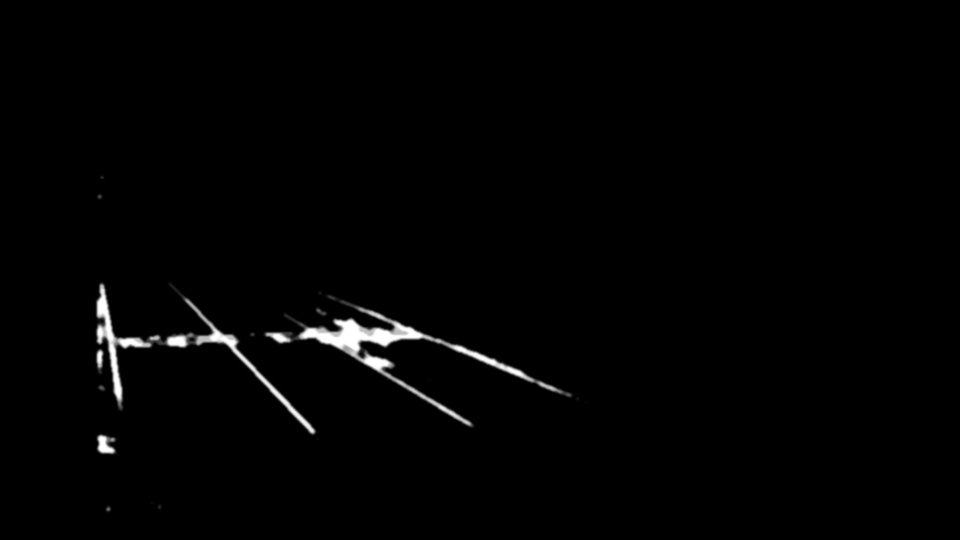
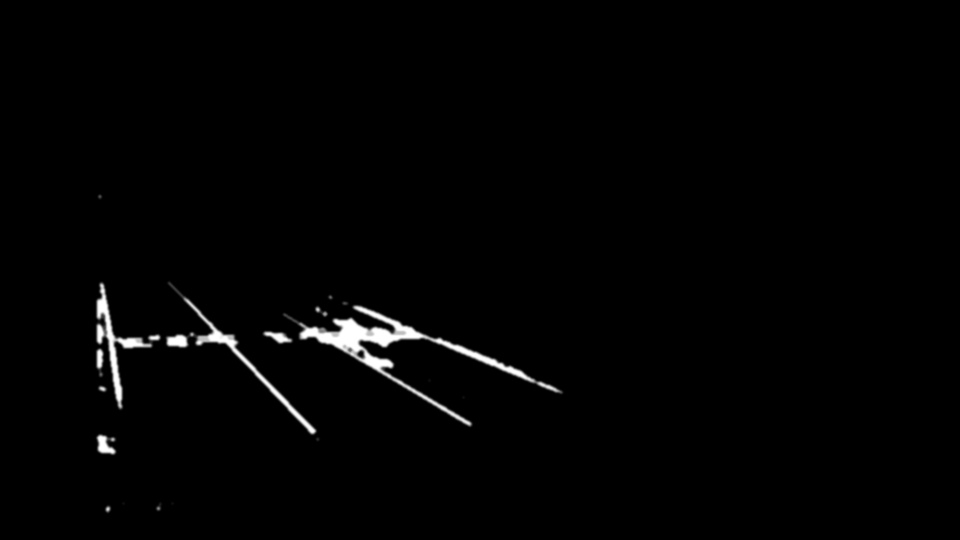
调整参数

diff --git a/source/image_utils.cpp b/source/image_utils.cpp
@@ -64,11 +64,12 @@ void brightness_contrast_auto(const cv::Mat &src, cv::Mat &dst, float clipHistPe
 static void sobel_thresh(cv::Mat const &src, cv::Mat &dest, int thresh_min = 0,
                          int thresh_max = 255)
 {
-    double min, max;
-    auto image = src.clone();
-    cv::minMaxLoc(image, &min, &max);
-    cv::Mat scaled = 255 * (image / max);
-    cv::inRange(scaled, cv::Scalar(thresh_min), cv::Scalar(thresh_max), dest);
+//    double min, max;
+//    auto image = src.clone();
+//    cv::minMaxLoc(image, &min, &max);
+//    cv::Mat scaled = 255 * (image / max);
+//    cv::inRange(scaled, cv::Scalar(thresh_min), cv::Scalar(thresh_max), dest);
+    cv::threshold(src, dest, thresh_min, thresh_max, 0);
 }
 
 void combined_threshold(const cv::Mat &img, cv::Mat &dst, int threshold)
@@ -80,7 +81,7 @@ void combined_threshold(const cv::Mat &img, cv::Mat &dst, int threshold)
     cv::split(undist_hls, hls_channels);
 
     cv::Mat back_img = hls_channels[1];
-    dst = back_img.clone();
+    cv::medianBlur(back_img, dst, 3);
     sobel_thresh(dst, dst, threshold, 255);
 
     cv::medianBlur(dst, dst, 5);
@@ -89,7 +90,7 @@ void combined_threshold(const cv::Mat &img, cv::Mat &dst, int threshold)
     auto kernel = cv::getStructuringElement(cv::MORPH_RECT, cv::Size(3, 3));
     cv::morphologyEx(dst, dst, cv::MORPH_CLOSE, kernel, cv::Point(-1, -1), 1);
 
-    cv::medianBlur(dst, dst, 5);
+    cv::medianBlur(dst, dst, 3);
     cv::GaussianBlur(dst, dst, cv::Size(3, 3), 0, 0);
 }
 
@@ -103,8 +104,9 @@ std::vector<cv::Vec4i> get_lines(const cv::Mat &gray_img, int length_threshold)
     int canny_aperture_size = 3;
     bool do_merge = true;
     cv::Ptr<FastLineDetector> fld = createFastLineDetector(length_threshold,
-                                                       distance_threshold, canny_th1, canny_th2, canny_aperture_size,
-                                                       do_merge);
+                                                           distance_threshold, canny_th1, canny_th2,
+                                                           canny_aperture_size,
+                                                           do_merge);
 
     std::vector<cv::Vec4f> lines;
     fld->detect(gray_img, lines);
@@ -120,14 +122,13 @@ std::vector<cv::Vec4i> get_lines(const cv::Mat &gray_img, int length_threshold)
 }
 
 
-
 static cv::Vec2d linear_parameters(cv::Vec4i line)
 {
     cv::Mat a = (cv::Mat_<double>(2, 2) <<
-                                line[0], 1,
+                                        line[0], 1,
             line[2], 1);
     cv::Mat y = (cv::Mat_<double>(2, 1) <<
-                                line[1],
+                                        line[1],
             line[3]);
     cv::Vec2d mc;
     solve(a, y, mc);
@@ -188,8 +189,9 @@ static std::vector<cv::Point2i> bounding_rectangle_contour(cv::Vec4i line, float
 static cv::Vec4i extended_line(cv::Vec4i line, double d)
 {
 
-    cv::Vec4d _line = line[2] - line[0] < 0 ? cv::Vec4d(line[2], line[3], line[0], line[1]) : cv::Vec4d(line[0], line[1], line[2],
-                                                                                            line[3]);
+    cv::Vec4d _line =
+            line[2] - line[0] < 0 ? cv::Vec4d(line[2], line[3], line[0], line[1]) : cv::Vec4d(line[0], line[1], line[2],
+                                                                                              line[3]);
     double m = linear_parameters(_line)[0];
 
     double xd = sqrt(d * d / (m * m + 1));
@@ -198,8 +200,9 @@ static cv::Vec4i extended_line(cv::Vec4i line, double d)
 }
 
 
-bool extended_bounding_rectangle_line_equivalence(const cv::Vec4i &_l1, const cv::Vec4i &_l2, float extensionLengthFraction,
-                                                  float maxAngleDiff, float boundingRectangleThickness)
+bool
+extended_bounding_rectangle_line_equivalence(const cv::Vec4i &_l1, const cv::Vec4i &_l2, float extensionLengthFraction,
+                                             float maxAngleDiff, float boundingRectangleThickness)
 {
 
     cv::Vec4i l1(_l1), l2(_l2);

diff --git a/main.cpp b/main.cpp
@@ -17,9 +17,11 @@ int main(int argc, char *argv[])
     bpo::options_description opts("all options");
     bpo::variables_map vm;
     int threshold = 0, length = 0;
+    float distance = 0;
     opts.add_options()
             ("filename,f", bpo::value<std::string>(), "图像路径")
             ("threshold,t", bpo::value<int>(&threshold)->default_value(190), "图像亮度阈值")
+            ("distance,d", bpo::value<float>(&distance)->default_value(50.0), "线条距离阈值")
             ("length,l", bpo::value<int>(&length)->default_value(50), "线段长度阈值");
     try
     {
@@ -38,18 +40,19 @@ int main(int argc, char *argv[])
     {
         return -1;
     }
+    brightness_contrast_auto(image, image, 1, 256, 0);
     //调整图像大小
     cv::Mat smaller_image;
     cv::resize(image, smaller_image, cv::Size(), 0.5, 0.5, cv::INTER_CUBIC);
     cv::Mat target = smaller_image.clone();
 
     // 对比和亮度调整
-    brightness_contrast_auto(target, target, 0, 255, 0);
+    cv::imwrite("/home/fss/CLionProjects/RoadLaneDetection/tmp/ba.jpg", target);
 
     //阈值图像
     cv::Mat grayscale;
     combined_threshold(target, grayscale, threshold);
-    cv::imwrite("/home/fss/CLionProjects/RoadLaneDetection/tmp/ab.jpg",grayscale);
+    cv::imwrite("/home/fss/CLionProjects/RoadLaneDetection/tmp/ab.jpg", grayscale);
     auto height = grayscale.size().height;
     auto width = grayscale.size().width;
 
@@ -67,7 +70,7 @@ int main(int argc, char *argv[])
                 l1, l2,
                 1.,
                 12.0,
-                length);
+                distance);
     });
 
 
